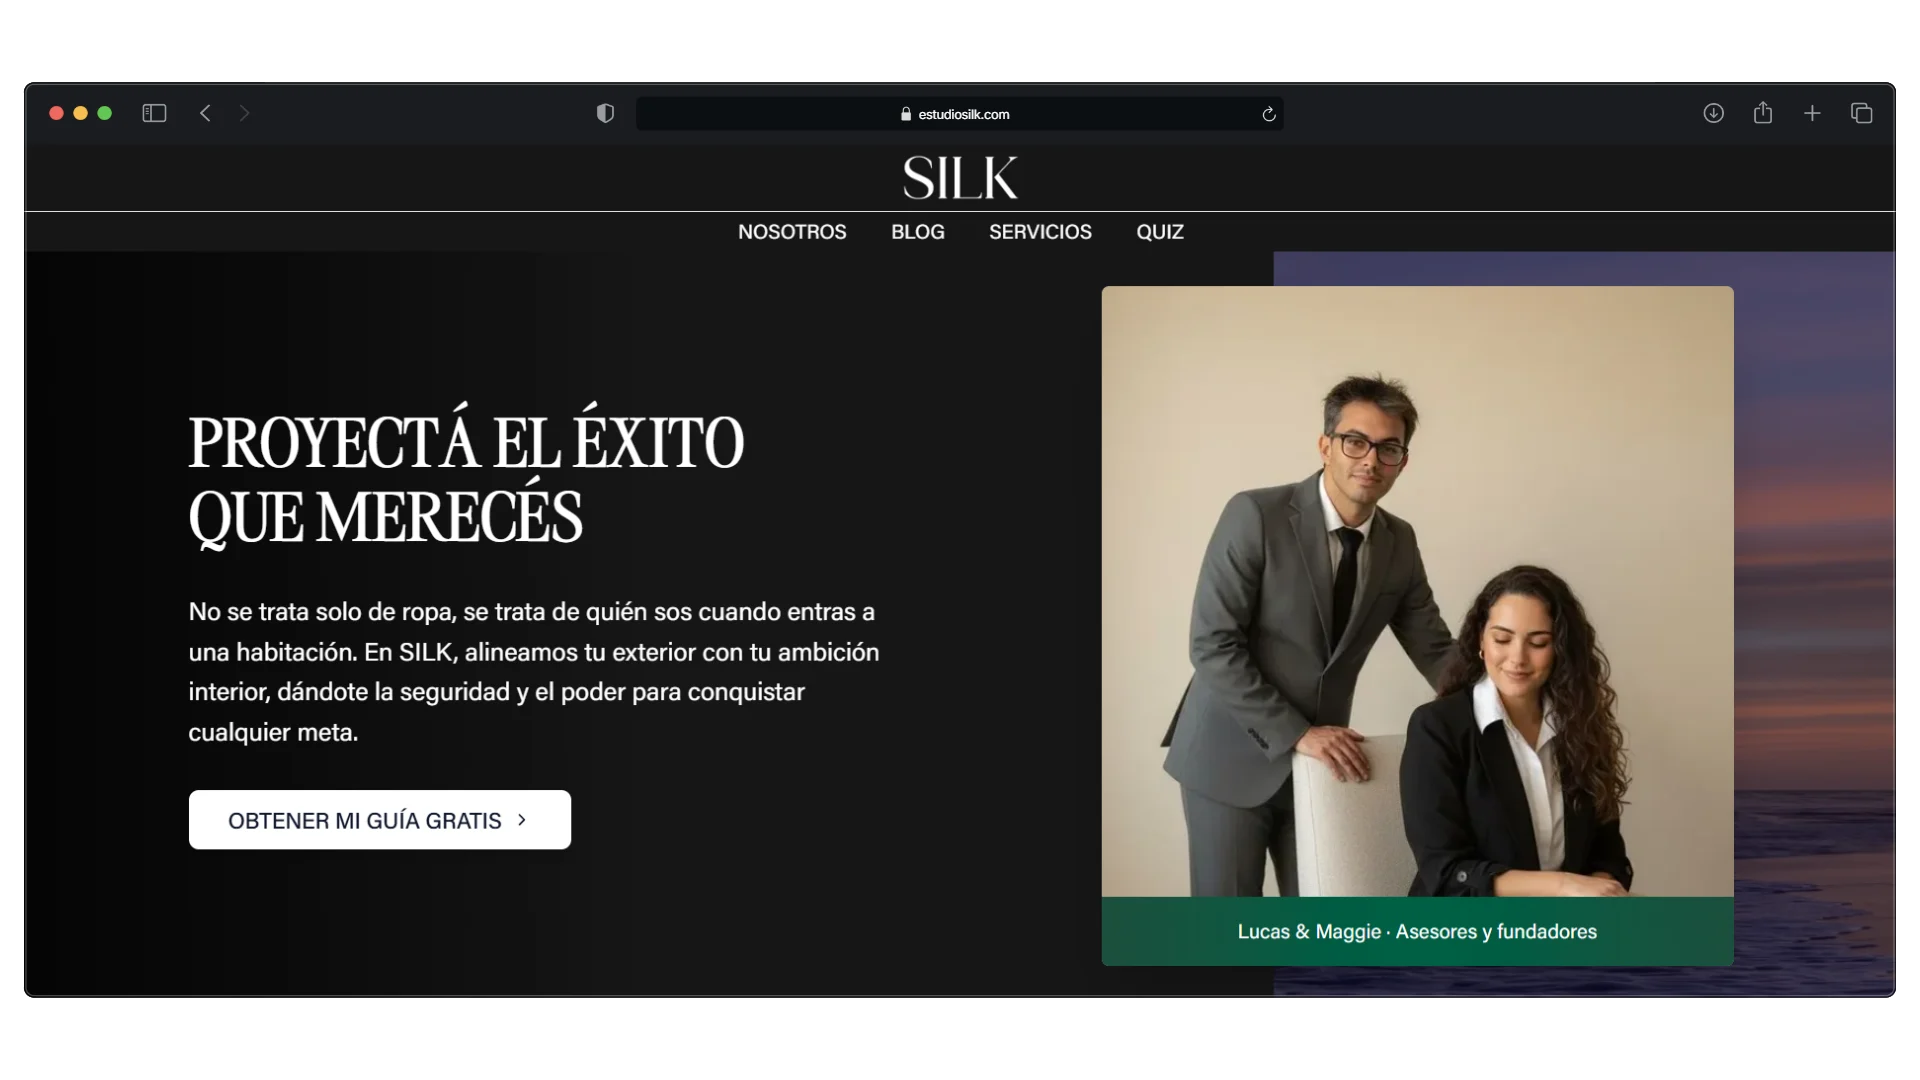
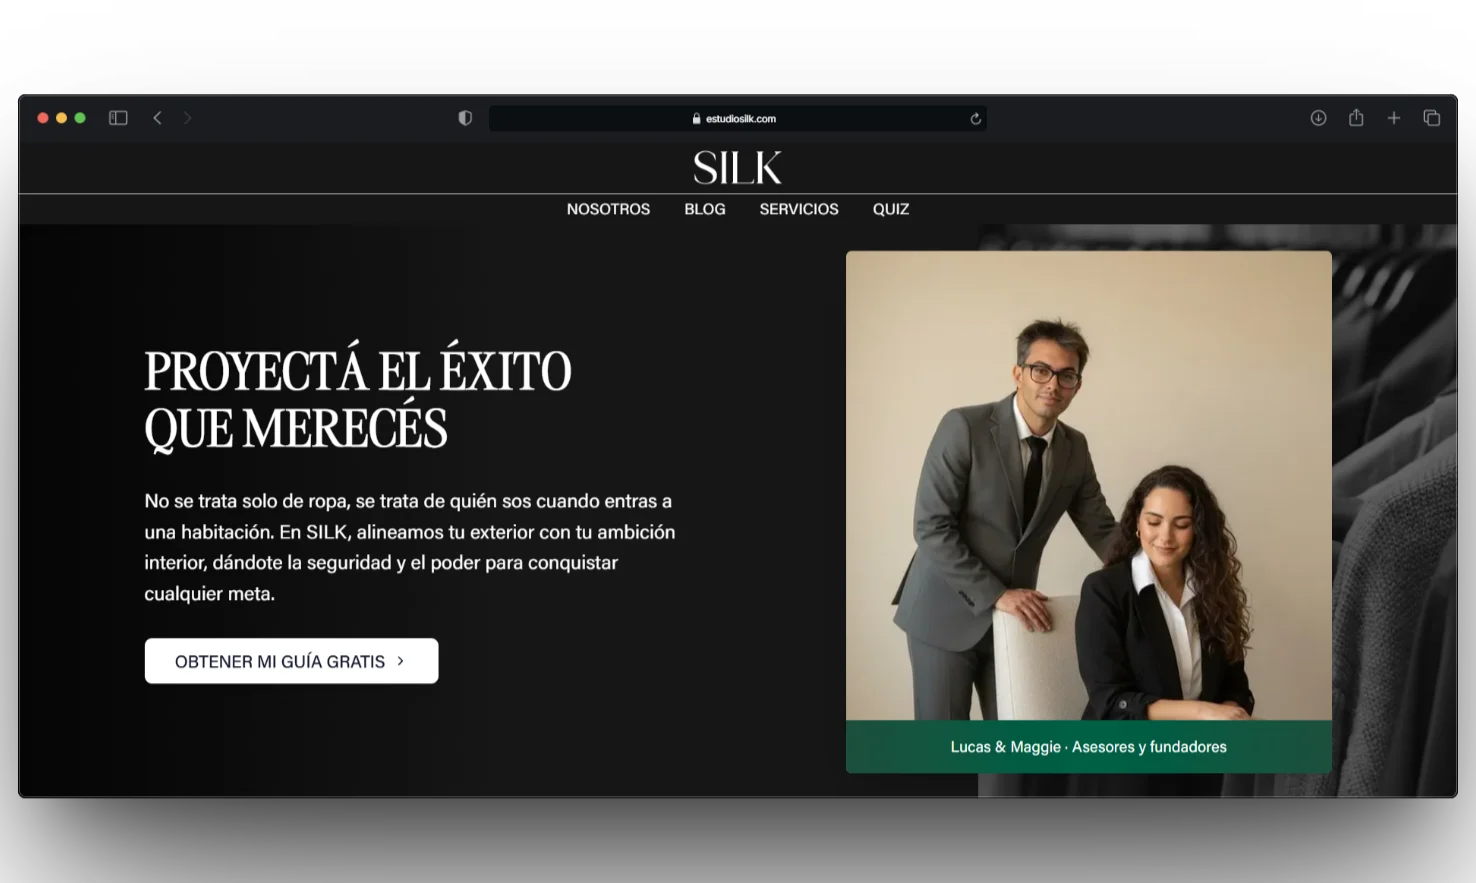
feat: update silk image

diff --git a/components/projects.tsx b/components/projects.tsx
@@ -2,11 +2,11 @@
 
 import ScrollStack, { ScrollStackItem } from './ui/react-bits/ScrollStack'
 import SectionHeader from './shared/section-header'
+import type { StaticImageData } from 'next/image'
 import { useMobile } from '@/hooks/use-mobile'
 import { ArrowUpRight } from 'lucide-react'
 import { useI18n } from '@/lib/i18n'
 import Image from 'next/image'
-import type { StaticImageData } from 'next/image'
 
 export function Projects() {
    const { locale, t } = useI18n()

diff --git a/components/phrase.tsx b/components/phrase.tsx
@@ -25,7 +25,7 @@ export const Phrase = () => {
    return (
       <section
          ref={ref}
-         className="relative w-full overflow-hidden border-y border-border bg-muted/20"
+         className="relative w-full overflow-hidden border-y border-border"
       >
          {/* Subtle grain texture overlay */}
          <div className="pointer-events-none absolute inset-0 mix-blend-overlay opacity-50" />
